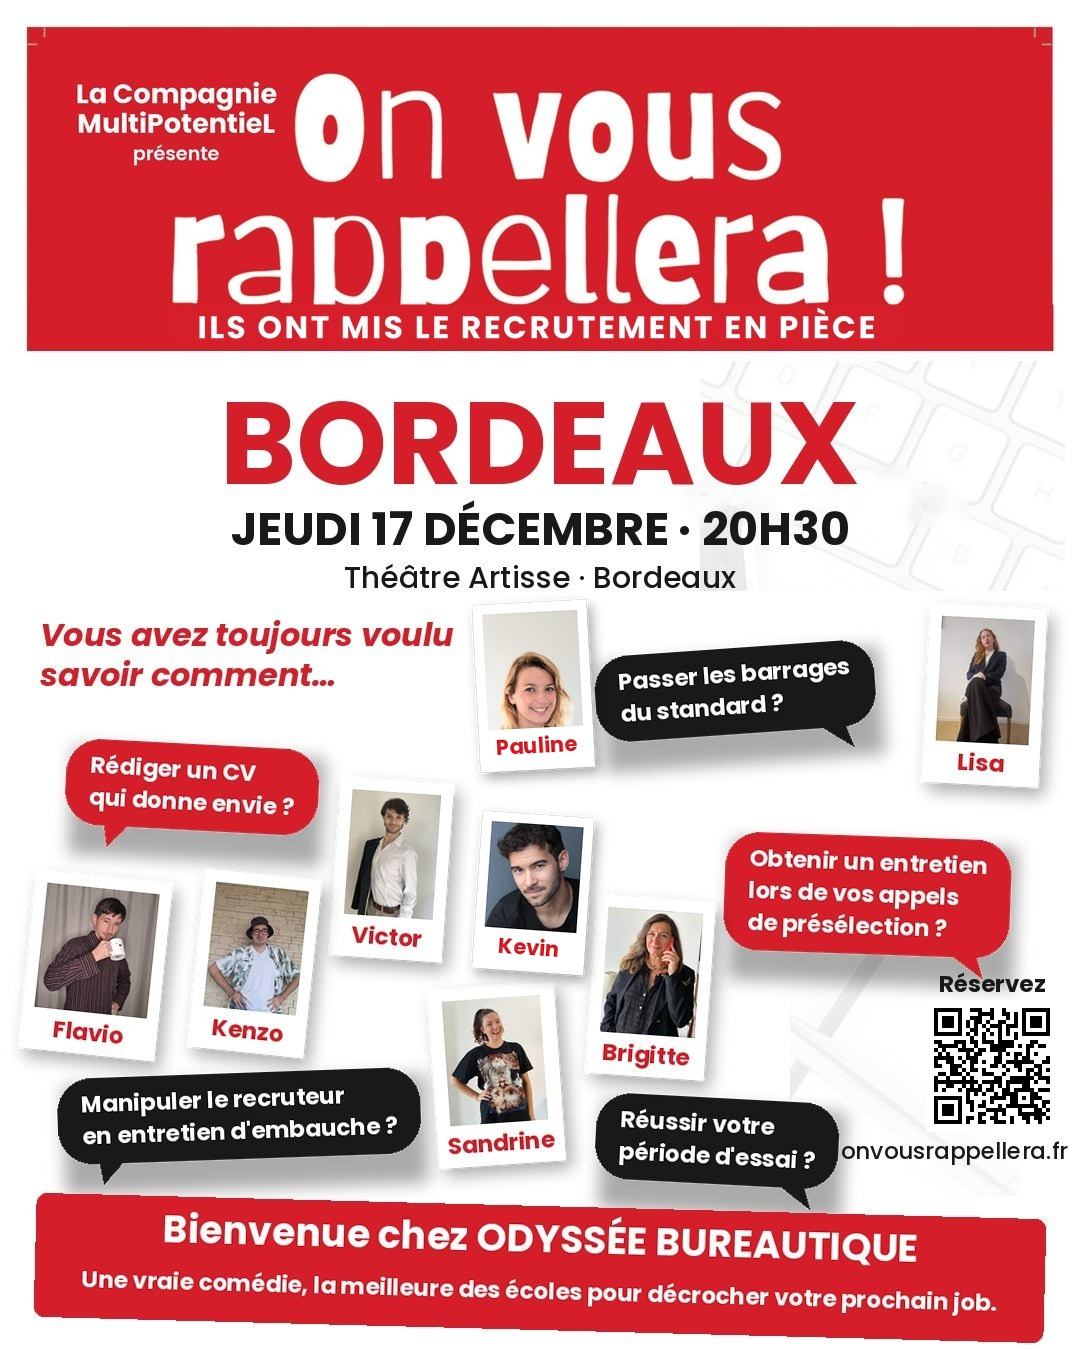
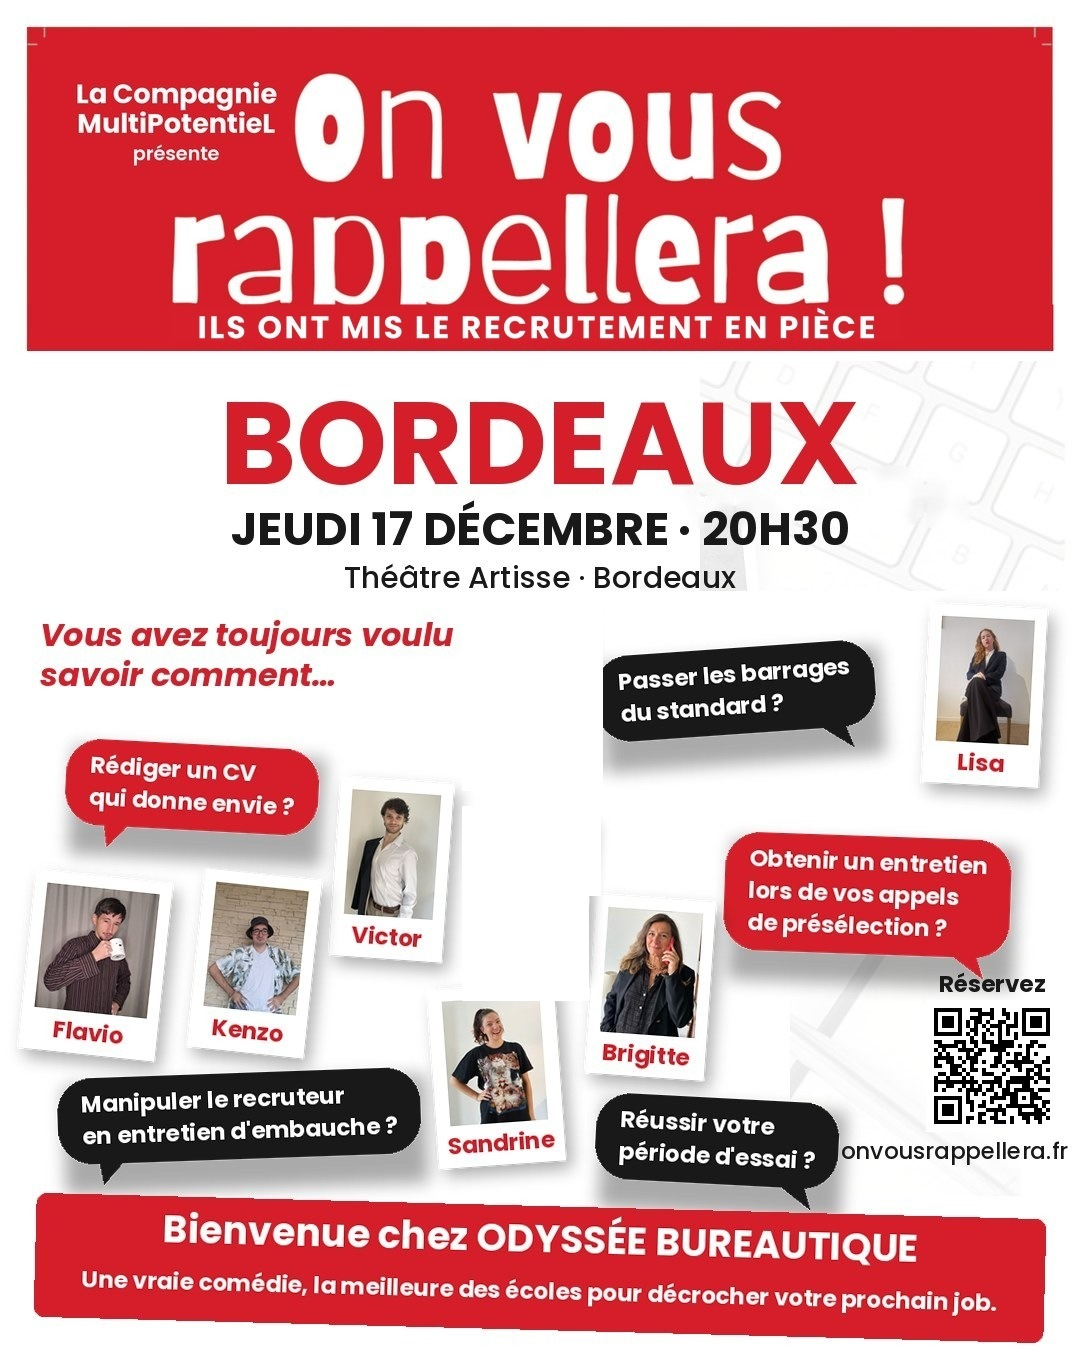
Bordeaux : retrait de Pauline et Kevin des affiches ; Pauline De Leusse (Engagement) remise sur le site
Claude-Session: https://claude.ai/code/session_01Mm1mn4H8znvzCX7iio1V9J

Changed region(s): [[0.4278, 0.4356, 0.5806, 0.7467]]

diff --git a/affiches.html b/affiches.html
@@ -1,3 +1,3 @@
 <!doctype html><html lang="fr"><head><meta charset="utf-8"><meta name="viewport" content="width=device-width,initial-scale=1"><meta name="robots" content="noindex"><title>Les affiches des troupes — On Vous Rappellera</title>
 <style>body{margin:0;background:#fff;color:#191919;font-family:Poppins,Arial,sans-serif}main{max-width:1180px;margin:0 auto;padding:24px 16px 60px}h1{color:#d51e29;font-size:1.7rem;margin:.2rem 0 .3rem}p.intro{margin:0 0 1.6rem;color:#4a463f}.grid{display:grid;grid-template-columns:repeat(auto-fill,minmax(320px,1fr));gap:28px}figure{margin:0}figure h2{font-size:1.05rem;margin:0 0 .5rem;color:#d51e29}figure h2 span{color:#191919;font-weight:600}img{width:100%;height:auto;display:block;border:1px solid #ddd;border-radius:6px}figcaption{margin-top:.45rem}figcaption a{color:#0b57d0;text-decoration:underline}@media(max-width:700px){.grid{grid-template-columns:1fr}}</style></head>
-<body><main><h1>Les affiches de <b>ON VOUS RAPPELLERA</b></h1><p class="intro">Une affiche par représentation, avec la troupe qui joue ce soir-là. Cliquez sur une affiche pour l'ouvrir en grand, ou téléchargez-la pour la partager.</p><div class="grid"><figure><h2>TOULOUSE <span>Mercredi 2 décembre · 20h</span></h2><a href="assets/affiches/affiche-toulouse-0212-20h.jpg" target="_blank" rel="noopener"><img src="assets/affiches/affiche-toulouse-0212-20h.jpg" alt="Affiche TOULOUSE Mercredi 2 décembre · 20h" loading="lazy"></a><figcaption><a href="assets/affiches/affiche-toulouse-0212-20h.jpg" download>Télécharger l'affiche</a></figcaption></figure><figure><h2>RENNES <span>Mercredi 9 décembre · 20h</span></h2><a href="assets/affiches/affiche-rennes-0912-20h.jpg" target="_blank" rel="noopener"><img src="assets/affiches/affiche-rennes-0912-20h.jpg" alt="Affiche RENNES Mercredi 9 décembre · 20h" loading="lazy"></a><figcaption><a href="assets/affiches/affiche-rennes-0912-20h.jpg" download>Télécharger l'affiche</a></figcaption></figure><figure><h2>BORDEAUX <span>Jeudi 10 décembre · 18h30</span></h2><a href="assets/affiches/affiche-bordeaux-1012-1830.jpg?v=2" target="_blank" rel="noopener"><img src="assets/affiches/affiche-bordeaux-1012-1830.jpg?v=2" alt="Affiche BORDEAUX Jeudi 10 décembre · 18h30" loading="lazy"></a><figcaption><a href="assets/affiches/affiche-bordeaux-1012-1830.jpg?v=2" download>Télécharger l'affiche</a></figcaption></figure><figure><h2>BORDEAUX <span>Jeudi 10 décembre · 20h30</span></h2><a href="assets/affiches/affiche-bordeaux-1012-2030.jpg?v=2" target="_blank" rel="noopener"><img src="assets/affiches/affiche-bordeaux-1012-2030.jpg?v=2" alt="Affiche BORDEAUX Jeudi 10 décembre · 20h30" loading="lazy"></a><figcaption><a href="assets/affiches/affiche-bordeaux-1012-2030.jpg?v=2" download>Télécharger l'affiche</a></figcaption></figure><figure><h2>PARIS <span>Samedi 12 décembre · 21h30</span></h2><a href="assets/affiches/affiche-paris-1212-2130.jpg?v=5" target="_blank" rel="noopener"><img src="assets/affiches/affiche-paris-1212-2130.jpg?v=5" alt="Affiche PARIS Samedi 12 décembre · 21h30 — troupe Esprit d’équipe" loading="lazy"></a><figcaption><a href="assets/affiches/affiche-paris-1212-2130.jpg?v=5" download>Télécharger l'affiche</a></figcaption></figure><figure><h2>LYON <span>Mercredi 16 décembre · 19h</span></h2><a href="assets/affiches/affiche-lyon-1612-19h.jpg?v=20261020" target="_blank" rel="noopener"><img src="assets/affiches/affiche-lyon-1612-19h.jpg?v=20261020" alt="Affiche LYON Mercredi 16 décembre · 19h" loading="lazy"></a><figcaption><a href="assets/affiches/affiche-lyon-1612-19h.jpg?v=20261020" download>Télécharger l'affiche</a></figcaption></figure><figure><h2>LYON <span>Mercredi 16 décembre · 21h</span></h2><a href="assets/affiches/affiche-lyon-1612-21h.jpg?v=20261020" target="_blank" rel="noopener"><img src="assets/affiches/affiche-lyon-1612-21h.jpg?v=20261020" alt="Affiche LYON Mercredi 16 décembre · 21h" loading="lazy"></a><figcaption><a href="assets/affiches/affiche-lyon-1612-21h.jpg?v=20261020" download>Télécharger l'affiche</a></figcaption></figure><figure><h2>BORDEAUX <span>Jeudi 17 décembre · 18h30</span></h2><a href="assets/affiches/affiche-bordeaux-1712-1830.jpg?v=2" target="_blank" rel="noopener"><img src="assets/affiches/affiche-bordeaux-1712-1830.jpg?v=2" alt="Affiche BORDEAUX Jeudi 17 décembre · 18h30" loading="lazy"></a><figcaption><a href="assets/affiches/affiche-bordeaux-1712-1830.jpg?v=2" download>Télécharger l'affiche</a></figcaption></figure><figure><h2>BORDEAUX <span>Jeudi 17 décembre · 20h30</span></h2><a href="assets/affiches/affiche-bordeaux-1712-2030.jpg?v=2" target="_blank" rel="noopener"><img src="assets/affiches/affiche-bordeaux-1712-2030.jpg?v=2" alt="Affiche BORDEAUX Jeudi 17 décembre · 20h30" loading="lazy"></a><figcaption><a href="assets/affiches/affiche-bordeaux-1712-2030.jpg?v=2" download>Télécharger l'affiche</a></figcaption></figure><figure><h2>PARIS <span>Vendredi 18 décembre · 19h30</span></h2><a href="assets/affiches/affiche-paris-1812-1930.jpg?v=5" target="_blank" rel="noopener"><img src="assets/affiches/affiche-paris-1812-1930.jpg?v=5" alt="Affiche PARIS Vendredi 18 décembre · 19h30 — troupe Esprit d’équipe" loading="lazy"></a><figcaption><a href="assets/affiches/affiche-paris-1812-1930.jpg?v=5" download>Télécharger l'affiche</a></figcaption></figure><figure><h2>NANTES <span>Mardi 19 janvier · 21h</span></h2><a href="assets/affiches/affiche-nantes-1901-21h.jpg" target="_blank" rel="noopener"><img src="assets/affiches/affiche-nantes-1901-21h.jpg" alt="Affiche NANTES Mardi 19 janvier · 21h" loading="lazy"></a><figcaption><a href="assets/affiches/affiche-nantes-1901-21h.jpg" download>Télécharger l'affiche</a></figcaption></figure><figure><h2>MONTPELLIER <span>Date à venir</span></h2><a href="assets/affiches/affiche-montpellier-date-a-venir.jpg?v=2" target="_blank" rel="noopener"><img src="assets/affiches/affiche-montpellier-date-a-venir.jpg?v=2" alt="Affiche MONTPELLIER Date à venir" loading="lazy"></a><figcaption><a href="assets/affiches/affiche-montpellier-date-a-venir.jpg?v=2" download>Télécharger l'affiche</a></figcaption></figure><figure><h2>PARIS <span>Troupe Engagement · date à venir</span></h2><a href="assets/affiches/affiche-paris-engagement-date-a-venir.jpg?v=20261107" target="_blank" rel="noopener"><img src="assets/affiches/affiche-paris-engagement-date-a-venir.jpg?v=20261107" alt="Affiche PARIS Troupe Engagement · date à venir" loading="lazy"></a><figcaption><a href="assets/affiches/affiche-paris-engagement-date-a-venir.jpg?v=20261107" download>Télécharger l'affiche</a></figcaption></figure><figure><h2>PARIS <span>Troupe Honnêteté · date à venir</span></h2><a href="assets/affiches/affiche-paris-honnetete-date-a-venir.jpg?v=2" target="_blank" rel="noopener"><img src="assets/affiches/affiche-paris-honnetete-date-a-venir.jpg?v=2" alt="Affiche PARIS Troupe Honnêteté · date à venir" loading="lazy"></a><figcaption><a href="assets/affiches/affiche-paris-honnetete-date-a-venir.jpg?v=2" download>Télécharger l'affiche</a></figcaption></figure></div></main></body></html>
+<body><main><h1>Les affiches de <b>ON VOUS RAPPELLERA</b></h1><p class="intro">Une affiche par représentation, avec la troupe qui joue ce soir-là. Cliquez sur une affiche pour l'ouvrir en grand, ou téléchargez-la pour la partager.</p><div class="grid"><figure><h2>TOULOUSE <span>Mercredi 2 décembre · 20h</span></h2><a href="assets/affiches/affiche-toulouse-0212-20h.jpg" target="_blank" rel="noopener"><img src="assets/affiches/affiche-toulouse-0212-20h.jpg" alt="Affiche TOULOUSE Mercredi 2 décembre · 20h" loading="lazy"></a><figcaption><a href="assets/affiches/affiche-toulouse-0212-20h.jpg" download>Télécharger l'affiche</a></figcaption></figure><figure><h2>RENNES <span>Mercredi 9 décembre · 20h</span></h2><a href="assets/affiches/affiche-rennes-0912-20h.jpg" target="_blank" rel="noopener"><img src="assets/affiches/affiche-rennes-0912-20h.jpg" alt="Affiche RENNES Mercredi 9 décembre · 20h" loading="lazy"></a><figcaption><a href="assets/affiches/affiche-rennes-0912-20h.jpg" download>Télécharger l'affiche</a></figcaption></figure><figure><h2>BORDEAUX <span>Jeudi 10 décembre · 18h30</span></h2><a href="assets/affiches/affiche-bordeaux-1012-1830.jpg?v=20261107" target="_blank" rel="noopener"><img src="assets/affiches/affiche-bordeaux-1012-1830.jpg?v=20261107" alt="Affiche BORDEAUX Jeudi 10 décembre · 18h30" loading="lazy"></a><figcaption><a href="assets/affiches/affiche-bordeaux-1012-1830.jpg?v=20261107" download>Télécharger l'affiche</a></figcaption></figure><figure><h2>BORDEAUX <span>Jeudi 10 décembre · 20h30</span></h2><a href="assets/affiches/affiche-bordeaux-1012-2030.jpg?v=20261107" target="_blank" rel="noopener"><img src="assets/affiches/affiche-bordeaux-1012-2030.jpg?v=20261107" alt="Affiche BORDEAUX Jeudi 10 décembre · 20h30" loading="lazy"></a><figcaption><a href="assets/affiches/affiche-bordeaux-1012-2030.jpg?v=20261107" download>Télécharger l'affiche</a></figcaption></figure><figure><h2>PARIS <span>Samedi 12 décembre · 21h30</span></h2><a href="assets/affiches/affiche-paris-1212-2130.jpg?v=5" target="_blank" rel="noopener"><img src="assets/affiches/affiche-paris-1212-2130.jpg?v=5" alt="Affiche PARIS Samedi 12 décembre · 21h30 — troupe Esprit d’équipe" loading="lazy"></a><figcaption><a href="assets/affiches/affiche-paris-1212-2130.jpg?v=5" download>Télécharger l'affiche</a></figcaption></figure><figure><h2>LYON <span>Mercredi 16 décembre · 19h</span></h2><a href="assets/affiches/affiche-lyon-1612-19h.jpg?v=20261020" target="_blank" rel="noopener"><img src="assets/affiches/affiche-lyon-1612-19h.jpg?v=20261020" alt="Affiche LYON Mercredi 16 décembre · 19h" loading="lazy"></a><figcaption><a href="assets/affiches/affiche-lyon-1612-19h.jpg?v=20261020" download>Télécharger l'affiche</a></figcaption></figure><figure><h2>LYON <span>Mercredi 16 décembre · 21h</span></h2><a href="assets/affiches/affiche-lyon-1612-21h.jpg?v=20261020" target="_blank" rel="noopener"><img src="assets/affiches/affiche-lyon-1612-21h.jpg?v=20261020" alt="Affiche LYON Mercredi 16 décembre · 21h" loading="lazy"></a><figcaption><a href="assets/affiches/affiche-lyon-1612-21h.jpg?v=20261020" download>Télécharger l'affiche</a></figcaption></figure><figure><h2>BORDEAUX <span>Jeudi 17 décembre · 18h30</span></h2><a href="assets/affiches/affiche-bordeaux-1712-1830.jpg?v=20261107" target="_blank" rel="noopener"><img src="assets/affiches/affiche-bordeaux-1712-1830.jpg?v=20261107" alt="Affiche BORDEAUX Jeudi 17 décembre · 18h30" loading="lazy"></a><figcaption><a href="assets/affiches/affiche-bordeaux-1712-1830.jpg?v=20261107" download>Télécharger l'affiche</a></figcaption></figure><figure><h2>BORDEAUX <span>Jeudi 17 décembre · 20h30</span></h2><a href="assets/affiches/affiche-bordeaux-1712-2030.jpg?v=20261107" target="_blank" rel="noopener"><img src="assets/affiches/affiche-bordeaux-1712-2030.jpg?v=20261107" alt="Affiche BORDEAUX Jeudi 17 décembre · 20h30" loading="lazy"></a><figcaption><a href="assets/affiches/affiche-bordeaux-1712-2030.jpg?v=20261107" download>Télécharger l'affiche</a></figcaption></figure><figure><h2>PARIS <span>Vendredi 18 décembre · 19h30</span></h2><a href="assets/affiches/affiche-paris-1812-1930.jpg?v=5" target="_blank" rel="noopener"><img src="assets/affiches/affiche-paris-1812-1930.jpg?v=5" alt="Affiche PARIS Vendredi 18 décembre · 19h30 — troupe Esprit d’équipe" loading="lazy"></a><figcaption><a href="assets/affiches/affiche-paris-1812-1930.jpg?v=5" download>Télécharger l'affiche</a></figcaption></figure><figure><h2>NANTES <span>Mardi 19 janvier · 21h</span></h2><a href="assets/affiches/affiche-nantes-1901-21h.jpg" target="_blank" rel="noopener"><img src="assets/affiches/affiche-nantes-1901-21h.jpg" alt="Affiche NANTES Mardi 19 janvier · 21h" loading="lazy"></a><figcaption><a href="assets/affiches/affiche-nantes-1901-21h.jpg" download>Télécharger l'affiche</a></figcaption></figure><figure><h2>MONTPELLIER <span>Date à venir</span></h2><a href="assets/affiches/affiche-montpellier-date-a-venir.jpg?v=2" target="_blank" rel="noopener"><img src="assets/affiches/affiche-montpellier-date-a-venir.jpg?v=2" alt="Affiche MONTPELLIER Date à venir" loading="lazy"></a><figcaption><a href="assets/affiches/affiche-montpellier-date-a-venir.jpg?v=2" download>Télécharger l'affiche</a></figcaption></figure><figure><h2>PARIS <span>Troupe Engagement · date à venir</span></h2><a href="assets/affiches/affiche-paris-engagement-date-a-venir.jpg?v=20261107" target="_blank" rel="noopener"><img src="assets/affiches/affiche-paris-engagement-date-a-venir.jpg?v=20261107" alt="Affiche PARIS Troupe Engagement · date à venir" loading="lazy"></a><figcaption><a href="assets/affiches/affiche-paris-engagement-date-a-venir.jpg?v=20261107" download>Télécharger l'affiche</a></figcaption></figure><figure><h2>PARIS <span>Troupe Honnêteté · date à venir</span></h2><a href="assets/affiches/affiche-paris-honnetete-date-a-venir.jpg?v=2" target="_blank" rel="noopener"><img src="assets/affiches/affiche-paris-honnetete-date-a-venir.jpg?v=2" alt="Affiche PARIS Troupe Honnêteté · date à venir" loading="lazy"></a><figcaption><a href="assets/affiches/affiche-paris-honnetete-date-a-venir.jpg?v=2" download>Télécharger l'affiche</a></figcaption></figure></div></main></body></html>
